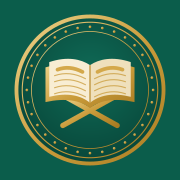
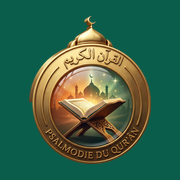
v283: icônes de l’application installée (192, 512, maskable, iPhone) avec le nouveau médaillon
Claude-Session: https://claude.ai/code/session_01UYdYS6K3sTev2hGYkbnfQP

diff --git a/sw.js b/sw.js
@@ -1,6 +1,6 @@
 // Niveau 4C — cache pour une ouverture rapide et hors ligne.
 // Change le numéro de CACHE à chaque nouvelle version : les téléphones affichent alors « Nouvelle version disponible ».
-const CACHE = 'niveau4c-v282-2026-11-26';
+const CACHE = 'niveau4c-v283-2026-11-26';
 const PRECACHE = ['./', 'index.html', 'manifest.webmanifest', 'assets/apple-touch-icon.png', 'assets/arpunct.woff2', 'assets/fonts/salat-calligraphie.woff2', 'assets/fonts/scheherazade-new-arabic-400-normal.woff2', 'assets/fonts/amiri-quran-arabic-400-normal.woff2', 'assets/cifod_cercle.webp', 'assets/cifod_logo.webp', 'assets/cifod_logo_prog.webp', 'assets/compagnon_cercle.webp', 'assets/dots.svg', 'assets/facebook_logo.webp', 'assets/fin-de-verset.svg', 'assets/hizb.svg', 'assets/icon-192.png', 'assets/icon-512.png', 'assets/icon-maskable-512.png', 'assets/jim.svg', 'assets/kfgqpc_hafs.woff2', 'assets/quran/index.json', 'assets/quran/s001.json', 'assets/quran/s002.json', 'assets/quran/s003.json', 'assets/quran/s004.json', 'assets/quran/s005.json', 'assets/quran/s006.json', 'assets/quran/s007.json', 'assets/quran/s008.json', 'assets/quran/s009.json', 'assets/quran/s010.json', 'assets/quran/s011.json', 'assets/quran/s012.json', 'assets/quran/s013.json', 'assets/quran/s014.json', 'assets/quran/s015.json', 'assets/quran/s016.json', 'assets/quran/s017.json', 'assets/quran/s018.json', 'assets/quran/s019.json', 'assets/quran/s020.json', 'assets/quran/s021.json', 'assets/quran/s022.json', 'assets/quran/s023.json', 'assets/quran/s024.json', 'assets/quran/s025.json', 'assets/quran/s026.json', 'assets/quran/s027.json', 'assets/quran/s028.json', 'assets/quran/s029.json', 'assets/quran/s030.json', 'assets/quran/s031.json', 'assets/quran/s032.json', 'assets/quran/s033.json', 'assets/quran/s034.json', 'assets/quran/s035.json', 'assets/quran/s036.json', 'assets/quran/s037.json', 'assets/quran/s038.json', 'assets/quran/s039.json', 'assets/quran/s040.json', 'assets/quran/s041.json', 'assets/quran/s042.json', 'assets/quran/s043.json', 'assets/quran/s044.json', 'assets/quran/s045.json', 'assets/quran/s046.json', 'assets/quran/s047.json', 'assets/quran/s048.json', 'assets/quran/s049.json', 'assets/quran/s050.json', 'assets/quran/s051.json', 'assets/quran/s052.json', 'assets/quran/s053.json', 'assets/quran/s054.json', 'assets/quran/s055.json', 'assets/quran/s056.json', 'assets/quran/s057.json', 'assets/quran/s058.json', 'assets/quran/s059.json', 'assets/quran/s060.json', 'assets/quran/s061.json', 'assets/quran/s062.json', 'assets/quran/s063.json', 'assets/quran/s064.json', 'assets/quran/s065.json', 'assets/quran/s066.json', 'assets/quran/s067.json', 'assets/quran/s068.json', 'assets/quran/s069.json', 'assets/quran/s070.json', 'assets/quran/s071.json', 'assets/quran/s072.json', 'assets/quran/s073.json', 'assets/quran/s074.json', 'assets/quran/s075.json', 'assets/quran/s076.json', 'assets/quran/s077.json', 'assets/quran/s078.json', 'assets/quran/s079.json', 'assets/quran/s080.json', 'assets/quran/s081.json', 'assets/quran/s082.json', 'assets/quran/s083.json', 'assets/quran/s084.json', 'assets/quran/s085.json', 'assets/quran/s086.json', 'assets/quran/s087.json', 'assets/quran/s088.json', 'assets/quran/s089.json', 'assets/quran/s090.json', 'assets/quran/s091.json', 'assets/quran/s092.json', 'assets/quran/s093.json', 'assets/quran/s094.json', 'assets/quran/s095.json', 'assets/quran/s096.json', 'assets/quran/s097.json', 'assets/quran/s098.json', 'assets/quran/s099.json', 'assets/quran/s100.json', 'assets/quran/s101.json', 'assets/quran/s102.json', 'assets/quran/s103.json', 'assets/quran/s104.json', 'assets/quran/s105.json', 'assets/quran/s106.json', 'assets/quran/s107.json', 'assets/quran/s108.json', 'assets/quran/s109.json', 'assets/quran/s110.json', 'assets/quran/s111.json', 'assets/quran/s112.json', 'assets/quran/s113.json', 'assets/quran/s114.json', 'assets/fonts/alegreya-latin-400-italic.woff2', 'assets/fonts/alegreya-latin-400-normal.woff2', 'assets/fonts/alegreya-latin-500-italic.woff2', 'assets/fonts/alegreya-latin-500-normal.woff2', 'assets/fonts/alegreya-latin-700-italic.woff2', 'assets/fonts/alegreya-latin-700-normal.woff2', 'assets/fonts/alegreya-latin-800-normal.woff2', 'assets/fonts/alegreya-latin-ext-400-italic.woff2', 'assets/fonts/alegreya-latin-ext-400-normal.woff2', 'assets/fonts/alegreya-latin-ext-500-italic.woff2', 'assets/fonts/alegreya-latin-ext-500-normal.woff2', 'assets/fonts/alegreya-latin-ext-700-italic.woff2', 'assets/fonts/alegreya-latin-ext-700-normal.woff2', 'assets/fonts/alegreya-latin-ext-800-normal.woff2', 'assets/fonts/alegreya-sans-latin-500-normal.woff2', 'assets/fonts/alegreya-sans-latin-700-normal.woff2', 'assets/fonts/alegreya-sans-latin-800-normal.woff2', 'assets/fonts/alegreya-sans-latin-ext-500-normal.woff2', 'assets/fonts/alegreya-sans-latin-ext-700-normal.woff2', 'assets/fonts/alegreya-sans-latin-ext-800-normal.woff2', 'assets/la.svg', 'assets/logo_android.webp', 'assets/logo_apple.webp', 'assets/logo_gmail.webp', 'assets/logo_google_maps.webp', 'assets/logo_psalmodie.webp', 'assets/logo_web_globe.webp', 'assets/logo_tiktok.webp', 'assets/logo_whatsapp.webp', 'assets/logo_youtube.webp', 'assets/mim.svg', 'assets/petite-vue.iife.js', 'assets/qala.svg', 'assets/sajda.svg', 'assets/sala.svg', 'assets/sin.svg', 'assets/viatique_cercle.webp', 'assets/quran_cercle.webp'];
 self.addEventListener('install', (e) => {
   e.waitUntil(caches.open(CACHE).then((c) => c.addAll(PRECACHE)));

diff --git a/index.html b/index.html
@@ -17,8 +17,8 @@
 <meta property="og:locale" content="fr_FR">
 <meta name="twitter:card" content="summary_large_image">
 <link rel="canonical" href="https://tadjwiid-cifod.netlify.app/">
-<link rel="icon" type="image/png" sizes="192x192" href="assets/icon-192.png">
-<link rel="apple-touch-icon" href="assets/apple-touch-icon.png">
+<link rel="icon" type="image/png" sizes="192x192" href="assets/icon-192.png?v=283">
+<link rel="apple-touch-icon" href="assets/apple-touch-icon.png?v=283">
 <link rel="manifest" href="manifest.webmanifest">
 <meta name="theme-color" content="#F5F6F1">
 <meta name="mobile-web-app-capable" content="yes">
